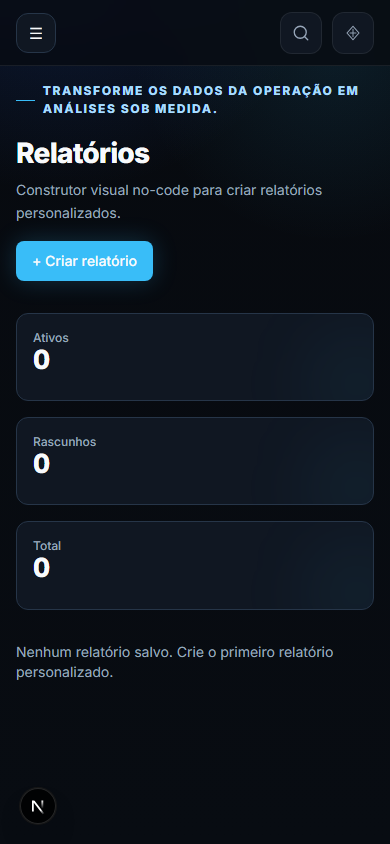
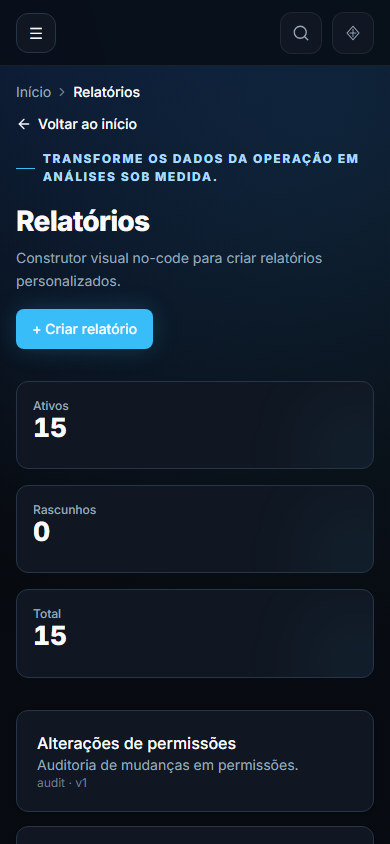
test: validate final extreme support and north workflows

diff --git a/src/modules/north-conversation/north-conversation.test.ts b/src/modules/north-conversation/north-conversation.test.ts
@@ -1,0 +1,86 @@
+import { describe, expect, it } from "vitest";
+import { computeConversions, mapIndicatorRaw, safeRatio } from "@/modules/north-conversation/domain/conversions";
+import { generateInsights } from "@/modules/north-conversation/domain/insights";
+import {
+  classifyScore,
+  computeFinalScore,
+  indicatorPercentScore,
+  selfAssessmentBlockScore,
+} from "@/modules/north-conversation/domain/scoring";
+
+describe("north conversation conversions", () => {
+  it("evita divisão por zero", () => {
+    expect(safeRatio(5, 0)).toBeNull();
+    const results = computeConversions({ calls: 0, openings: 0 });
+    expect(results.every((r) => r.value === null || r.denominator > 0)).toBe(true);
+  });
+
+  it("calcula funil completo", () => {
+    const input = mapIndicatorRaw({
+      calls: 100,
+      openings: 40,
+      meetings_scheduled: 20,
+      meetings_held: 15,
+      contracts_generated: 6,
+      contracts_signed: 4,
+    });
+    const conv = computeConversions(input);
+    expect(conv.find((c) => c.key === "call_to_opening")?.value).toBeCloseTo(0.4);
+    expect(conv.find((c) => c.key === "call_to_signed")?.value).toBeCloseTo(0.04);
+  });
+});
+
+describe("north conversation scoring", () => {
+  it("aplica pesos e redistribui N/A", () => {
+    const score = computeFinalScore({
+      indicators: 9,
+      conversions: null,
+      crm: 8,
+      execution: 7,
+      behavior: 8,
+      selfAssessment: 7,
+    });
+    expect(score).not.toBeNull();
+    expect(score!).toBeGreaterThan(7);
+  });
+
+  it("classifica faixas oficiais", () => {
+    expect(classifyScore(9)).toBe("Alta performance");
+    expect(classifyScore(7.5)).toBe("Dentro do esperado");
+    expect(classifyScore(6)).toBe("Em atenção");
+    expect(classifyScore(4)).toBe("Plano de recuperação");
+  });
+
+  it("pontua indicadores por percentual", () => {
+    expect(indicatorPercentScore(95)).toBe(9);
+    expect(indicatorPercentScore(45)).toBe(2);
+  });
+
+  it("pontua autoavaliação", () => {
+    expect(selfAssessmentBlockScore("alta_performance", "muito_organizada")).toBe(10);
+  });
+});
+
+describe("north conversation insights", () => {
+  it("gera insight com evidência quando há volume e baixa abertura", () => {
+    const conversions = computeConversions(mapIndicatorRaw({ calls: 50, openings: 3 }));
+    const insights = generateInsights({
+      conversions,
+      crmCriticalCount: 0,
+      behaviorCriticalCount: 0,
+    });
+    expect(insights.some((i) => i.ruleKey === "high_calls_low_openings")).toBe(true);
+    expect(insights[0]?.evidence).toBeDefined();
+  });
+
+  it("detecta divergência de autoavaliação", () => {
+    const insights = generateInsights({
+      conversions: computeConversions({}),
+      crmCriticalCount: 0,
+      behaviorCriticalCount: 0,
+      selfPerceivedPerformance: "alta_performance",
+      calculatedClassification: "Em atenção",
+    });
+    expect(insights.some((i) => i.ruleKey === "self_assessment_divergence")).toBe(true);
+  });
+});

diff --git a/scripts/qa-data/one-on-one.ts b/scripts/qa-data/one-on-one.ts
@@ -22,7 +22,7 @@ export async function provisionOneOnOneData(
     {
       id: templateId,
       tenant_id: tenant.id,
-      name: "Modelo QA — Desenvolvimento",
+      name: "Modelo QA — Venda ComCiência",
       is_active: true,
       fixture_key: `${prefix}.ooo.template`,
       is_test_data: true,
@@ -31,13 +31,14 @@ export async function provisionOneOnOneData(
     { onConflict: "id" },
   );
 
-  const statuses = ["completed", "completed", "completed", "scheduled", "scheduled", "in_progress", "in_progress", "in_progress"] as const;
+  const statuses = ["completed", "completed", "completed", "scheduled", "scheduled", "in_progress", "in_progress", "in_progress", "draft"] as const;
   for (let i = 1; i <= 12; i++) {
     const meetingId =
       tenantKey === "north"
         ? `33333333-3333-3333-3333-33333333${String(100 + i).padStart(4, "0")}`
         : `33333333-3333-3333-3333-33333333${String(200 + i).padStart(4, "0")}`;
     const status = statuses[i % statuses.length] ?? "scheduled";
+    const isMethodology = tenantKey === "north" && i === 1;
     await admin.from("one_on_one_meetings").upsert(
       {
         id: meetingId,
@@ -47,14 +48,78 @@ export async function provisionOneOnOneData(
         employee_id: employeeIds[i % employeeIds.length],
         scheduled_at: new Date(Date.now() - i * 86400000).toISOString(),
         completed_at: status === "completed" ? new Date(Date.now() - i * 43200000).toISOString() : null,
-        status,
-        summary: status === "completed" ? `Reunião QA ${i} concluída` : null,
+        status: isMethodology ? "completed" : status,
+        summary: status === "completed" || isMethodology ? `Reunião QA ${i} — metodologia Venda ComCiência` : null,
+        company_snapshot: tenant.name,
+        methodology_version: "venda-com-ciencia-1",
+        calculated_score: isMethodology ? 8.7 : status === "completed" ? 7.2 + (i % 3) * 0.5 : null,
+        classification: isMethodology ? "Alta performance" : status === "completed" ? (i % 4 === 0 ? "Em atenção" : "Dentro do esperado") : null,
         fixture_key: `${prefix}.ooo.meeting.${i}`,
         is_test_data: true,
         created_by: managerId,
       },
       { onConflict: "id" },
     );
+
+    if (isMethodology) {
+      const blocks = [
+        { key: "general", payload: { project: "Comercial QA", meetingType: "quinzenal" } },
+        {
+          key: "indicators",
+          payload: { raw: { calls: 120, openings: 45, meetings_scheduled: 18, meetings_held: 14, contracts_generated: 5, contracts_signed: 3 } },
+        },
+        { key: "bottleneck", payload: { primary: "low_scheduled", notes: "Gargalo na conversão para agendada" } },
+        { key: "diagnosis", payload: { summary: "Volume adequado com oportunidade de melhoria na geração de valor na abertura." } },
+        {
+          key: "action_plan",
+          payload: {
+            actions: [
+              { title: "Revisar abordagem inicial", ownerId: employeeIds[0] },
+              { title: "Organizar CRM diariamente", ownerId: employeeIds[0] },
+              { title: "Ouvir 5 ligações com gestor", ownerId: managerId },
+            ],
+          },
+        },
+      ];
+      for (const block of blocks) {
+        await admin.from("one_on_one_meeting_blocks").upsert(
+          {
+            id: `22222222-2222-2222-2222-22222222${String(100 + blocks.indexOf(block)).padStart(4, "0")}`,
+            tenant_id: tenant.id,
+            meeting_id: meetingId,
+            block_key: block.key,
+            payload: block.payload,
+            updated_by: managerId,
+          },
+          { onConflict: "id" },
+        );
+      }
+      await admin.from("one_on_one_meeting_insights").upsert(
+        {
+          id: "22222222-2222-2222-2222-222222221099",
+          tenant_id: tenant.id,
+          meeting_id: meetingId,
+          dimension: "conversions",
+          severity: "warning",
+          rule_key: "high_openings_low_scheduled",
+          message:
+            "A conversa inicial não está gerando valor suficiente para o lead assumir o próximo compromisso.",
+          recommendation: "Reforçar proposta de valor e qualificação na abertura.",
+          evidence: { openings: 45, ratio: 0.4 },
+        },
+        { onConflict: "id" },
+      );
+      await admin.from("one_on_one_meeting_snapshots").upsert(
+        {
+          id: "22222222-2222-2222-2222-222222221100",
+          tenant_id: tenant.id,
+          meeting_id: meetingId,
+          snapshot: { classification: "Alta performance", calculatedScore: 8.7 },
+          created_by: managerId,
+        },
+        { onConflict: "id" },
+      );
+    }
   }
 
   const planStatuses = ["overdue", "overdue", "overdue", "overdue", "completed", "completed", "completed", "in_progress", "in_progress", "in_progress"] as const;